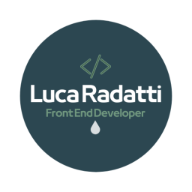
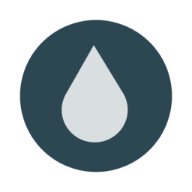
changed style first page

Changed region(s): [[0.1562, 0.2188, 0.8438, 0.75]]

diff --git a/assets/css/style.css b/assets/css/style.css
@@ -1,1 +1,1 @@
-.button-one{padding:10px;margin-top:5px;background-color:#425f4c;font-size:.8em;font-weight:700;border-radius:5px;border:1px solid #2c4751;color:#d9dee0;box-shadow:0 8px 16px 0 rgba(0,0,0,.2),0 6px 20px 0 rgba(0,0,0,.19);cursor:pointer;transition:.5s}.button-one:hover{background-color:#2c4751;padding-right:15px;padding-left:15px}.column-form{display:flex;flex-direction:column;align-items:start;margin-bottom:20px;min-height:100%;height:auto !important;height:100%;margin:0 auto -100px}.row-header-form{text-align:left;border-radius:3px;width:100%;margin-top:64px;padding:20px;background-color:rgba(66,95,76,.2)}.row-header-form h1{font-size:30px;color:#425f4c}.item-row{margin-bottom:5px;width:100%;display:flex;justify-content:flex-start;flex-direction:column;flex-wrap:wrap;padding-left:20px}.item-row input[type=text],.item-row input[type=email]{background-color:rgba(66,95,76,.2);border:1px solid #2c4751;border-radius:3px;width:280px;max-width:280px;padding:7px;font-size:.8em}.item-row label{margin:15px 0 15px 0}.item-row input[type=text]:invalid,.item-row input[type=email]:invalid{border:1px solid #2c4751;color:darkred}.item-row textarea{border:1px solid #2c4751;background-color:rgba(66,95,76,.2);border-radius:3px;min-height:100px;width:280px;margin-bottom:10px;padding:7px;font-family:inherit;font-size:.8em;resize:none}.item-row input[type=submit]{color:#d9dee0}.column-cards{display:grid;grid-template-columns:auto;margin:80px 0 30px 0;color:#2c4751;row-gap:20px}.row-cards{display:flex;justify-content:center}.card{box-shadow:0 4px 8px 0 rgba(0,0,0,.2);transition:.3s;width:70%;border:4px solid #d9dee0;color:#425f4c}.card:hover{cursor:pointer;box-shadow:0 8px 16px 0 rgba(0,0,0,.2)}.card a{text-decoration:none;color:inherit}.card img{width:100%}.container{margin:5px;padding:5px 16px 5px 16px;background-color:rgba(66,95,76,.2)}.dropdown-otherpg:hover .item-menu-otherpg,.dropdown:hover .item-menu{display:flex;flex-direction:column;text-shadow:6px 2px 4px rgba(44,71,81,.46);padding-top:10px;position:absolute;left:-15px;z-index:1;background-color:#48353c}.item-menu-otherpg li,.item-menu li{list-style:none;border-bottom:1px dotted #70977f;font-size:.8em;padding:0 5px 10px 5px;margin:5px;text-align:center;font-weight:700}.item-menu-otherpg li a:link,.item-menu li a:link,.item-menu-otherpg li a:visited,.item-menu li a:visited{text-decoration:none}.item-menu-otherpg li a:link:active,.item-menu li a:link:active,.item-menu-otherpg li a:visited:active,.item-menu li a:visited:active{color:#70977f}.dropdown-otherpg,.dropdown{position:relative}.dropdown-otherpg span,.dropdown span{z-index:2;position:relative;cursor:pointer;left:0;animation-name:dropmove;animation-iteration-count:3;animation-duration:1.5s}@keyframes dropmove{0%{left:0px;top:0px}25%{left:0px;top:0px}50%{left:0px;top:10px}75%{left:0px;top:10px}100%{left:0px;top:0px}}.navigation-otherpg,.navigation{justify-content:center;display:flex;font-size:.8em;position:absolute;right:20px}.navigation-otherpg li,.navigation li{list-style-type:none}.dropdown:hover .item-menu{border-radius:5px;top:40px}.item-menu{display:none}.navigation{margin-top:20px;top:0}.dropdown-otherpg:hover .item-menu-otherpg{border-radius:0 0 5px 5px;top:44px}.item-menu-otherpg{display:none}.navigation-otherpg{margin-top:10px;top:10px}*{box-sizing:border-box;margin:0;padding:0}html{height:100%}body{height:100%;font-family:Roboto,sans-serif;line-height:1.6;font-size:18px;text-transform:capitalize;background-color:#d9dee0}body a{color:#d9dee0}.grid-logo{display:grid;grid-template-columns:40px 40px 40px}.item-logo{padding-top:20px;padding-left:10px}svg{width:40px;height:30px;fill:#425f4c;border-radius:5px}.navbar{position:fixed;display:flex;justify-content:space-between;width:100%;padding:3px 30px 5px 10px;top:0;background-color:#425f4c}.navbar li{list-style-type:none}.logo-name{display:flex;padding:10px 10px 10px 0;font-weight:700;font-size:1em;flex-wrap:wrap;transition:.5s}.logo-name a{text-decoration:none}.logo-name h1{font-size:.8em;line-height:.5;color:#70977f}.column-firstpage{margin:100px 15px 30px 15px;padding:70px 60px 70px 60px;background-color:rgba(66,95,76,.2);display:flex;flex-direction:column}.row-name-firstpg{text-align:center;font-size:1.2em;color:#425f4c;flex-wrap:wrap}.row-name-firstpg h5,.row-name-firstpg h3{color:#70977f}.column-about{display:grid;grid-template-columns:auto;margin-top:60px;color:#2c4751}.column-about img{border:2px solid #425f4c}.column-about p{font-size:.8em;text-transform:none}.column-about h1{text-align:center;text-transform:none;font-size:1.2em;padding:10px 0 20px 0}.row-image-profile{width:100%;padding:20px 70px 10px 70px}.row-image-profile img{width:100%}.row-text-profile{text-align:left;width:100%;padding:0 30px 30px 30px;background-color:rgba(66,95,76,.2)}.row-skills{text-align:left;width:100%;padding:20px 20px 20px 20px}.row-skills .button-one{background-color:#425f4c;padding:10px;cursor:default}.row-button{text-align:left;width:100%;padding:20px 20px 20px 20px;background-color:rgba(66,95,76,.2)}.button-ct{display:flex;justify-content:center;width:100%;margin:15px 0 15px 0;flex-wrap:wrap}.button-ct a{text-decoration:none}.button-contactme{padding:10px 0 10px 0}.column-cv{display:grid;grid-template-columns:auto;margin-top:60px;font-size:.8em}.column-cv h3{color:#2c4751}.column-cv svg{fill:#2c4751;width:20px;margin:0 5px 0 5px}.column-cv .button-one{margin-left:10px}.row-name-cv{text-align:center;width:100%;color:#2c4751;padding:30px 10px 10px 10px;background-color:rgba(66,95,76,.2)}.row-name-cv h1{font-size:2.5em}.row-name-cv h2{font-size:1em}.row-imagecv-profile{display:flex;justify-content:center;padding:20px 70px 20px 70px}.row-imagecv-profile img{border:2px solid #425f4c;width:200px}.row-personal-info{background-color:rgba(66,95,76,.2);box-sizing:content-box}.row-personal-info li{list-style-type:none;color:#2c4751;margin-left:5px}.row-personal-info li:first-of-type{margin-top:10px}.row-personal-info div{padding:10px 30px 20px 30px}.row-personal-info p{text-transform:none;color:#2c4751;margin-top:10px}.row-personal-info h3{color:#425f4c}.row-personal-info a{color:#2c4751;text-transform:none;text-decoration:none}.row-personal-info .item-logo{padding:20px 0 0 0}.row-exp{background-color:#d9dee0;padding:10px 30px 10px 30px}.row-exp h3{color:#425f4c;padding-top:20px}.row-exp h4{padding:20px 0 5px 0}.row-exp ul{margin:10px 0 0 30px}.row-exp div{font-size:1em;color:#2c4751;padding-bottom:20px}.row-exp li{margin-top:5px}.row-exp a{color:#48353c;text-transform:none;text-decoration:none}.row-exp #competenze li{font-weight:700}.row-exp #competenze p{text-transform:none}.card .container{font-size:.7em}.card .container p{text-transform:none}.extra,.column-footer{height:100px}.column-footer{display:flex;flex-direction:column;padding:20px;margin-top:5px;align-items:center;color:#2c4751;background-color:rgba(66,95,76,.2)}.column-footer a{text-decoration:none}.arrow-back-up{position:fixed;z-index:1000;bottom:1px;right:2px}@media only screen and (min-width: 430px)and (max-width: 960px){.column-firstpage{margin-top:50px}.column-about{grid-template-columns:1fr;gap:10px;margin:90px 10px 0 10px;justify-content:center;justify-items:center}.row-image-profile{max-width:400px}.row-image-profile img{width:100%}.row-skills{text-align:center}.column-cards{display:grid;grid-template-columns:1fr 1fr;margin:100px 0 30px 0;color:#2c4751;row-gap:40px}.column-form{flex-direction:row;flex-wrap:wrap}.row-header-form{text-align:center}.contactme-form{width:70%;background-color:rgba(66,95,76,.2);margin:auto;margin-top:20px;margin-bottom:20px;padding:20px 20px 0 20px;box-sizing:content-box}.item-row{flex-direction:row;margin-bottom:20px;justify-content:center;margin-left:0;padding-left:0}.item-row input[type=text],.item-row input[type=email],.item-row textarea{min-width:300px;height:initial}.item-row label{text-align:right;width:20px;margin-top:7px;margin-right:70px;padding-right:20px}.column-cv{grid-template-columns:1fr;gap:10px;justify-content:center;justify-items:center}.column-cv div{width:98%}.row-imagecv-profile{max-width:400px}.row-imagecv-profile img{width:100%}.card .container{font-size:.8em}}@media only screen and (min-width: 961px){.dropdown-otherpg:hover .item-menu-otherpg,.dropdown:hover .item-menu{display:flex;flex-direction:row-reverse;text-shadow:6px 2px 4px rgba(44,71,81,.46);position:absolute;top:-15px;left:-300px}.item-menu-otherpg li,.item-menu li{list-style:none;border:none;font-size:1em;padding:15px;margin:0;text-align:center;font-weight:700}.item-menu-otherpg li a:hover,.item-menu li a:hover{font-size:110%}body{font-family:Roboto,sans-serif;max-width:1440px;line-height:1.6;font-size:18px;text-transform:capitalize;margin:0 auto;position:relative}.navbar{position:fixed;display:flex;max-width:1440px;justify-content:space-between;padding:10px 20px 10px 20px;top:0}.navbar li{list-style-type:none}.logo-name a:hover{color:#2c4751;transition:.5s}.dropdown:hover .item-menu{background-color:#d9dee0}.item-menu a{color:#425f4c}.dropdown-otherpg:hover .item-menu-otherpg{background-color:#425f4c}.column-firstpage{margin-top:60px}.column-about{grid-template-columns:1fr 1fr;gap:10px;margin:90px 10px 10px 10px;justify-items:center;align-items:center}.column-about .button-one{margin-top:10px;text-decoration:none}.row-image-profile{max-width:500px}.row-image-profile img{width:100%}.row-button{grid-column:1/3}.row-skills{grid-column:2/2;text-align:center}.row-skills .button-one:hover{background-color:#425f4c;padding:10px;cursor:default}.row-text-profile{grid-row:1/3;font-size:1.2em;padding:20px}.column-cards{display:grid;grid-template-columns:1fr 1fr 1fr;margin:100px 0 30px 0;color:#2c4751;row-gap:40px}.column-cards .card .container{font-size:.9em}.column-form{flex-direction:row;flex-wrap:wrap}.row-header-form{text-align:center}.row-form{display:flex;justify-content:center}.contactme-form{width:70%;background-color:rgba(66,95,76,.2);margin:auto;margin-top:20px;margin-bottom:20px;padding:20px 20px 0 20px;box-sizing:content-box}.item-row{flex-direction:row;margin-bottom:20px;justify-content:center;margin-left:0;padding-left:0}.item-row input[type=text],.item-row input[type=email],.item-row textarea{min-width:400px;height:initial}textarea{resize:vertical}.item-row label{text-align:right;width:20px;margin-top:7px;margin-right:70px;padding-right:20px}.column-cv{grid-template-columns:400px 1fr;gap:5px;margin:90px 10px 0 10px}.column-cv .button-ct{grid-column:1/3}.row-imagecv-profile{max-width:600px;background-color:rgba(66,95,76,.2);grid-row:1/2}.row-imagecv-profile img{width:100%}.row-exp h3:first-of-type{padding-top:0}.row-name-cv{text-align:left;font-size:2em;background-color:#d9dee0;padding-left:30px}.column-footer{display:flex;flex-direction:row;padding:20px 40px 10px 20px;justify-content:space-between;color:#2c4751;background-color:rgba(66,95,76,.2)}::-webkit-scrollbar{width:8px}::-webkit-scrollbar-track{box-shadow:inset 0 0 5px #d9dee0}::-webkit-scrollbar-thumb{background:rgba(66,95,76,.2);border-radius:5px}::-webkit-scrollbar-thumb:hover{background:#425f4c}.arrow-back-up:hover{font-size:150%}}
+.button-one{padding:10px;margin-top:5px;background-color:#425f4c;font-size:.8em;font-weight:700;border-radius:5px;border:1px solid #2c4751;color:#d9dee0;box-shadow:0 8px 16px 0 rgba(0,0,0,.2),0 6px 20px 0 rgba(0,0,0,.19);cursor:pointer;transition:.5s}.button-one:hover{background-color:#2c4751;padding-right:15px;padding-left:15px}.column-form{display:flex;flex-direction:column;align-items:start;margin-bottom:20px;min-height:100%;height:auto !important;height:100%;margin:0 auto -100px}.row-header-form{text-align:left;border-radius:3px;width:100%;margin-top:64px;padding:20px;background-color:rgba(66,95,76,.2)}.row-header-form h1{font-size:30px;color:#425f4c}.item-row{margin-bottom:5px;width:100%;display:flex;justify-content:flex-start;flex-direction:column;flex-wrap:wrap;padding-left:20px}.item-row input[type=text],.item-row input[type=email]{background-color:rgba(66,95,76,.2);border:1px solid #2c4751;border-radius:3px;width:280px;max-width:280px;padding:7px;font-size:.8em}.item-row label{margin:15px 0 15px 0}.item-row input[type=text]:invalid,.item-row input[type=email]:invalid{border:1px solid #2c4751;color:darkred}.item-row textarea{border:1px solid #2c4751;background-color:rgba(66,95,76,.2);border-radius:3px;min-height:100px;width:280px;margin-bottom:10px;padding:7px;font-family:inherit;font-size:.8em;resize:none}.item-row input[type=submit]{color:#d9dee0}.column-cards{display:grid;grid-template-columns:auto;margin:80px 0 30px 0;color:#2c4751;row-gap:20px}.row-cards{display:flex;justify-content:center}.card{box-shadow:0 4px 8px 0 rgba(0,0,0,.2);transition:.3s;width:70%;border:4px solid #d9dee0;color:#425f4c}.card:hover{cursor:pointer;box-shadow:0 8px 16px 0 rgba(0,0,0,.2)}.card a{text-decoration:none;color:inherit}.card img{width:100%}.container{margin:5px;padding:5px 16px 5px 16px;background-color:rgba(66,95,76,.2)}.dropdown-otherpg:hover .item-menu-otherpg,.dropdown:hover .item-menu{display:flex;flex-direction:column;text-shadow:6px 2px 4px rgba(44,71,81,.46);padding-top:10px;position:absolute;left:-15px;z-index:1;background-color:#48353c}.item-menu-otherpg li,.item-menu li{list-style:none;border-bottom:1px dotted #70977f;font-size:.8em;padding:0 5px 10px 5px;margin:5px;text-align:center;font-weight:700}.item-menu-otherpg li a:link,.item-menu li a:link,.item-menu-otherpg li a:visited,.item-menu li a:visited{text-decoration:none}.item-menu-otherpg li a:link:active,.item-menu li a:link:active,.item-menu-otherpg li a:visited:active,.item-menu li a:visited:active{color:#70977f}.dropdown-otherpg,.dropdown{position:relative}.dropdown-otherpg span,.dropdown span{z-index:2;position:relative;cursor:pointer;left:0;animation-name:dropmove;animation-iteration-count:3;animation-duration:1.5s}@keyframes dropmove{0%{left:0px;top:0px}25%{left:0px;top:0px}50%{left:0px;top:10px}75%{left:0px;top:10px}100%{left:0px;top:0px}}.navigation-otherpg,.navigation{justify-content:center;display:flex;font-size:.8em;position:absolute;right:20px}.navigation-otherpg li,.navigation li{list-style-type:none}.dropdown:hover .item-menu{border-radius:5px;top:40px}.item-menu{display:none}.navigation{margin-top:20px;top:0}.dropdown-otherpg:hover .item-menu-otherpg{border-radius:0 0 5px 5px;top:44px}.item-menu-otherpg{display:none}.navigation-otherpg{margin-top:10px;top:10px}*{box-sizing:border-box;margin:0;padding:0}html{height:100%}body{height:100%;font-family:Roboto,sans-serif;line-height:1.6;font-size:18px;text-transform:capitalize;background-color:#d9dee0}body a{color:#d9dee0}.grid-logo{display:grid;grid-template-columns:40px 40px 40px}.item-logo{padding-top:20px;padding-left:10px}svg{width:40px;height:30px;fill:#425f4c;border-radius:5px}.navbar{position:fixed;display:flex;justify-content:space-between;width:100%;padding:10px 30px 15px 0px;top:0;background-color:#425f4c}.navbar li{list-style-type:none}.logo-name{display:flex}.logo-name a{text-decoration:none;height:40px}.logo-name img{margin-left:5px;height:50px}.column-firstpage{margin:100px 15px 30px 15px;padding:50px 20px 50px 20px;background-color:rgba(66,95,76,.2);display:flex;flex-direction:column}.row-name-firstpg{text-align:center}.row-name-firstpg img{width:100%;max-width:400px}.column-about{display:grid;grid-template-columns:auto;margin-top:60px;color:#2c4751}.column-about img{border:2px solid #425f4c}.column-about p{font-size:.8em;text-transform:none}.column-about h1{text-align:center;text-transform:none;font-size:1.2em;padding:10px 0 20px 0}.row-image-profile{width:100%;padding:20px 70px 10px 70px}.row-image-profile img{width:100%}.row-text-profile{text-align:left;width:100%;padding:0 30px 30px 30px;background-color:rgba(66,95,76,.2)}.row-skills{text-align:left;width:100%;padding:20px 20px 20px 20px}.row-skills .button-one{background-color:#425f4c;padding:10px;cursor:default}.row-button{text-align:left;width:100%;padding:20px 20px 20px 20px;background-color:rgba(66,95,76,.2)}.button-ct{display:flex;justify-content:center;width:100%;margin:15px 0 15px 0;flex-wrap:wrap}.button-ct a{text-decoration:none}.button-contactme{padding:10px 0 10px 0}.column-cv{display:grid;grid-template-columns:auto;margin-top:60px;font-size:.8em}.column-cv h3{color:#2c4751}.column-cv svg{fill:#2c4751;width:20px;margin:0 5px 0 5px}.column-cv .button-one{margin-left:10px}.row-name-cv{text-align:center;width:100%;color:#2c4751;padding:30px 10px 10px 10px;background-color:rgba(66,95,76,.2)}.row-name-cv h1{font-size:2.5em}.row-name-cv h2{font-size:1em}.row-imagecv-profile{display:flex;justify-content:center;padding:20px 70px 20px 70px}.row-imagecv-profile img{border:2px solid #425f4c;width:200px}.row-personal-info{background-color:rgba(66,95,76,.2);box-sizing:content-box}.row-personal-info li{list-style-type:none;color:#2c4751;margin-left:5px}.row-personal-info li:first-of-type{margin-top:10px}.row-personal-info div{padding:10px 30px 20px 30px}.row-personal-info p{text-transform:none;color:#2c4751;margin-top:10px}.row-personal-info h3{color:#425f4c}.row-personal-info a{color:#2c4751;text-transform:none;text-decoration:none}.row-personal-info .item-logo{padding:20px 0 0 0}.row-exp{background-color:#d9dee0;padding:10px 30px 10px 30px}.row-exp h3{color:#425f4c;padding-top:20px}.row-exp h4{padding:20px 0 5px 0}.row-exp ul{margin:10px 0 0 30px}.row-exp div{font-size:1em;color:#2c4751;padding-bottom:20px}.row-exp li{margin-top:5px}.row-exp a{color:#48353c;text-transform:none;text-decoration:none}.row-exp #competenze li{font-weight:700}.row-exp #competenze p{text-transform:none}.card .container{font-size:.7em}.card .container p{text-transform:none}.extra,.column-footer{height:100px}.column-footer{display:flex;flex-direction:column;padding:20px;margin-top:5px;align-items:center;color:#2c4751;background-color:rgba(66,95,76,.2)}.column-footer a{text-decoration:none}.arrow-back-up{position:fixed;z-index:1000;bottom:1px;right:2px}@media only screen and (min-width: 430px)and (max-width: 960px){.column-firstpage{margin-top:50px}.column-about{grid-template-columns:1fr;gap:10px;margin:90px 10px 0 10px;justify-content:center;justify-items:center}.row-image-profile{max-width:400px}.row-image-profile img{width:100%}.row-skills{text-align:center}.column-cards{display:grid;grid-template-columns:1fr 1fr;margin:100px 0 30px 0;color:#2c4751;row-gap:40px}.column-form{flex-direction:row;flex-wrap:wrap}.row-header-form{text-align:center}.contactme-form{width:70%;background-color:rgba(66,95,76,.2);margin:auto;margin-top:20px;margin-bottom:20px;padding:20px 20px 0 20px;box-sizing:content-box}.item-row{flex-direction:row;margin-bottom:20px;justify-content:center;margin-left:0;padding-left:0}.item-row input[type=text],.item-row input[type=email],.item-row textarea{min-width:300px;height:initial}.item-row label{text-align:right;width:20px;margin-top:7px;margin-right:70px;padding-right:20px}.column-cv{grid-template-columns:1fr;gap:10px;justify-content:center;justify-items:center}.column-cv div{width:98%}.row-imagecv-profile{max-width:400px}.row-imagecv-profile img{width:100%}.card .container{font-size:.8em}}@media only screen and (min-width: 961px){.dropdown-otherpg:hover .item-menu-otherpg,.dropdown:hover .item-menu{display:flex;flex-direction:row-reverse;text-shadow:6px 2px 4px rgba(44,71,81,.46);position:absolute;top:-15px;left:-300px}.item-menu-otherpg li,.item-menu li{list-style:none;border:none;font-size:1em;padding:15px;margin:0;text-align:center;font-weight:700}.item-menu-otherpg li a:hover,.item-menu li a:hover{font-size:110%}body{font-family:Roboto,sans-serif;max-width:1440px;line-height:1.6;font-size:18px;text-transform:capitalize;margin:0 auto;position:relative}.navbar{position:fixed;display:flex;max-width:1440px;height:80px;justify-content:space-between;padding:10px 20px 20px 20px;top:0}.navbar li{list-style-type:none}.logo-name img{height:70px}.navigation-otherpg{margin-top:20px}.dropdown:hover .item-menu{background-color:#d9dee0}.item-menu a{color:#425f4c}.dropdown-otherpg:hover .item-menu-otherpg{background-color:#425f4c}.column-firstpage{margin-top:60px}.column-about{grid-template-columns:1fr 1fr;gap:10px;margin:90px 10px 10px 10px;justify-items:center;align-items:center}.column-about .button-one{margin-top:10px;text-decoration:none}.row-image-profile{max-width:500px}.row-image-profile img{width:100%}.row-button{grid-column:1/3}.row-skills{grid-column:2/2;text-align:center}.row-skills .button-one:hover{background-color:#425f4c;padding:10px;cursor:default}.row-text-profile{grid-row:1/3;font-size:1.2em;padding:20px}.column-cards{display:grid;grid-template-columns:1fr 1fr 1fr;margin:100px 0 30px 0;color:#2c4751;row-gap:40px}.column-cards .card .container{font-size:.9em}.column-form{flex-direction:row;flex-wrap:wrap}.row-header-form{text-align:center}.row-form{display:flex;justify-content:center}.contactme-form{width:70%;background-color:rgba(66,95,76,.2);margin:auto;margin-top:20px;margin-bottom:20px;padding:20px 20px 0 20px;box-sizing:content-box}.item-row{flex-direction:row;margin-bottom:20px;justify-content:center;margin-left:0;padding-left:0}.item-row input[type=text],.item-row input[type=email],.item-row textarea{min-width:400px;height:initial}textarea{resize:vertical}.item-row label{text-align:right;width:20px;margin-top:7px;margin-right:70px;padding-right:20px}.column-cv{grid-template-columns:400px 1fr;gap:5px;margin:90px 10px 0 10px}.column-cv .button-ct{grid-column:1/3}.row-imagecv-profile{max-width:600px;background-color:rgba(66,95,76,.2);grid-row:1/2}.row-imagecv-profile img{width:100%}.row-exp h3:first-of-type{padding-top:0}.row-name-cv{text-align:left;font-size:2em;background-color:#d9dee0;padding-left:30px}.column-footer{display:flex;flex-direction:row;padding:20px 40px 10px 20px;justify-content:space-between;color:#2c4751;background-color:rgba(66,95,76,.2)}::-webkit-scrollbar{width:8px}::-webkit-scrollbar-track{box-shadow:inset 0 0 5px #d9dee0}::-webkit-scrollbar-thumb{background:rgba(66,95,76,.2);border-radius:5px}::-webkit-scrollbar-thumb:hover{background:#425f4c}.arrow-back-up:hover{font-size:150%}}

diff --git a/contactme/index.html b/contactme/index.html
@@ -51,7 +51,7 @@
         <nav class="navbar">
             
             <div class="logo-name">
-              <a href="/">LUCA RADATTI <br><h1>web developer</h1></a>
+              <a href="/"><img src="/assets/img/logoDarkWidth.png" alt="front end developer personal logo"></a>
             </div>
                 
             <div class="navigation-otherpg">
@@ -77,17 +77,17 @@
         <form id="form" class="contactme-form" onsubmit="return showMessage()">
           <input type="hidden" name="contact_number">
           <div class='item-row'>
-            <label>Name</label>
+            <label for="user_name">Name</label>
             <input name='user_name' type='text' id="user_name" placeholder='Enter your full name' required/>
           </div>
 
           <div class='item-row'>
-            <label>Email</label>
+            <label for="user_email">Email</label>
             <input name='user_email' type='email' id="user_email" placeholder='youremail@example.com' required/>
           </div>
 
           <div class='item-row'>
-            <label>Message</label>
+            <label for="message">Message</label>
             <textarea name='message' id="message" placeholder='Your Message' required></textarea>
           </div>
 

diff --git a/assets/scss/style.scss b/assets/scss/style.scss
@@ -52,7 +52,7 @@ svg{
     display: flex;
     justify-content:space-between;
     width: 100%;
-    padding: 3px 30px 5px 10px;
+    padding: 10px 30px 15px 0px;
     top: 0;
     background-color: $color-pred;
 
@@ -63,19 +63,14 @@ svg{
 
 .logo-name{
     display: flex;
-    padding: 10px 10px 10px 0;
-    font-weight: 700;
-    font-size: 1em;
-    flex-wrap: wrap;
-    transition: 0.5s;
         
         a{
             text-decoration: none;
+            height: 40px;
         }
-        h1{
-            font-size: 0.8em;
-            line-height: 0.5;
-            color: $color-primary;
+        img{
+            margin-left: 5px;
+            height: 50px;
         }
        
 }
@@ -84,7 +79,7 @@ svg{
 //start style body first page
 .column-firstpage{
     margin:100px 15px 30px 15px;
-    padding: 70px 60px 70px 60px;
+    padding: 50px 20px 50px 20px;
     background-color: $color-pred-trasp;
     display: flex;
     flex-direction: column;
@@ -93,13 +88,10 @@ svg{
 
 .row-name-firstpg{
     text-align: center;
-    font-size: 1.2em;
-    color: $color-pred;
-    flex-wrap: wrap;
-
-    h5, h3{
-        color: $color-primary;
-    }
+   img{
+    width: 100%;
+    max-width: 400px;
+   }
 }
 //end style body first page
 

diff --git a/assets/scss/_desktop.scss b/assets/scss/_desktop.scss
@@ -37,8 +37,9 @@
         position: fixed;
         display: flex;
         max-width: 1440px;
+        height: 80px;
         justify-content: space-between;
-        padding: 10px 20px 10px 20px;
+        padding: 10px 20px 20px 20px;
         top: 0;
     
             li{
@@ -47,10 +48,13 @@
     }
 
     .logo-name{
-            a:hover{
-                color: $color-dark;
-                transition: 0.5s;
+            img{
+                height: 70px;
             }
+    }
+
+    .navigation-otherpg{
+        margin-top: 20px;
     }
 
         //start navbar and dropdown menu first page

diff --git a/index.html b/index.html
@@ -78,14 +78,7 @@
     <section class="column-firstpage">
       
       <div class="row-name-firstpg">
-        <h3>Hello, I'm</h3>
-        <h1>LUCA <br> RADATTI</h1>
-        <h5>Front End Developer</h5>
-        <h6>Welcome in my website</h6>
-      </div>
-     
-      <div class="button-ct">
-        <a class="button-one" href="/about/">enter</a>
+        <a href="/about/"><img src="/assets/img/logoDark.png" alt=""></a>
       </div>
 
     </section> 

diff --git a/cv/index.html b/cv/index.html
@@ -45,7 +45,7 @@
         <nav class="navbar">
             
             <div class="logo-name">
-                <a href="/">LUCA RADATTI <br><h1>web developer</h1></a>   
+                <a href="/"><img src="/assets/img/logoDarkWidth.png" alt="front end developer personal logo"></a>   
             </div>
                 
             <div class="navigation-otherpg">

diff --git a/portfolio/index.html b/portfolio/index.html
@@ -45,7 +45,7 @@
         <nav class="navbar">
             
             <div class="logo-name">
-                <a href="/">LUCA RADATTI <br><h1>web developer</h1></a>   
+                <a href="/"><img src="/assets/img/logoDarkWidth.png" alt="front end developer personal logo"></a>   
             </div>
                 
             <div class="navigation-otherpg">

diff --git a/about/index.html b/about/index.html
@@ -44,7 +44,7 @@
         <nav class="navbar">
             
             <div class="logo-name">
-              <a href="/">LUCA RADATTI <br><h1>web developer</h1></a>
+              <a href="/"><img src="/assets/img/logoDarkWidth.png" alt="front end developer personal logo"></a>
             </div>
                 
             <div class="navigation-otherpg">

diff --git a/assets/scss/_config.scss b/assets/scss/_config.scss
@@ -3,5 +3,5 @@ $color-dark:#2c4751; //color bg hover
 $color-light:#48353c; //color bg menu mobile
 $color-link:#d9dee0; //color with link and bg page
 $color-pred:#425f4c; //color predominant navbar
-$color-pred-trasp:rgb(66, 95, 76, 0.2);
+$color-pred-trasp:#425f4c33;
 $font-style: Roboto, sans-serif;
